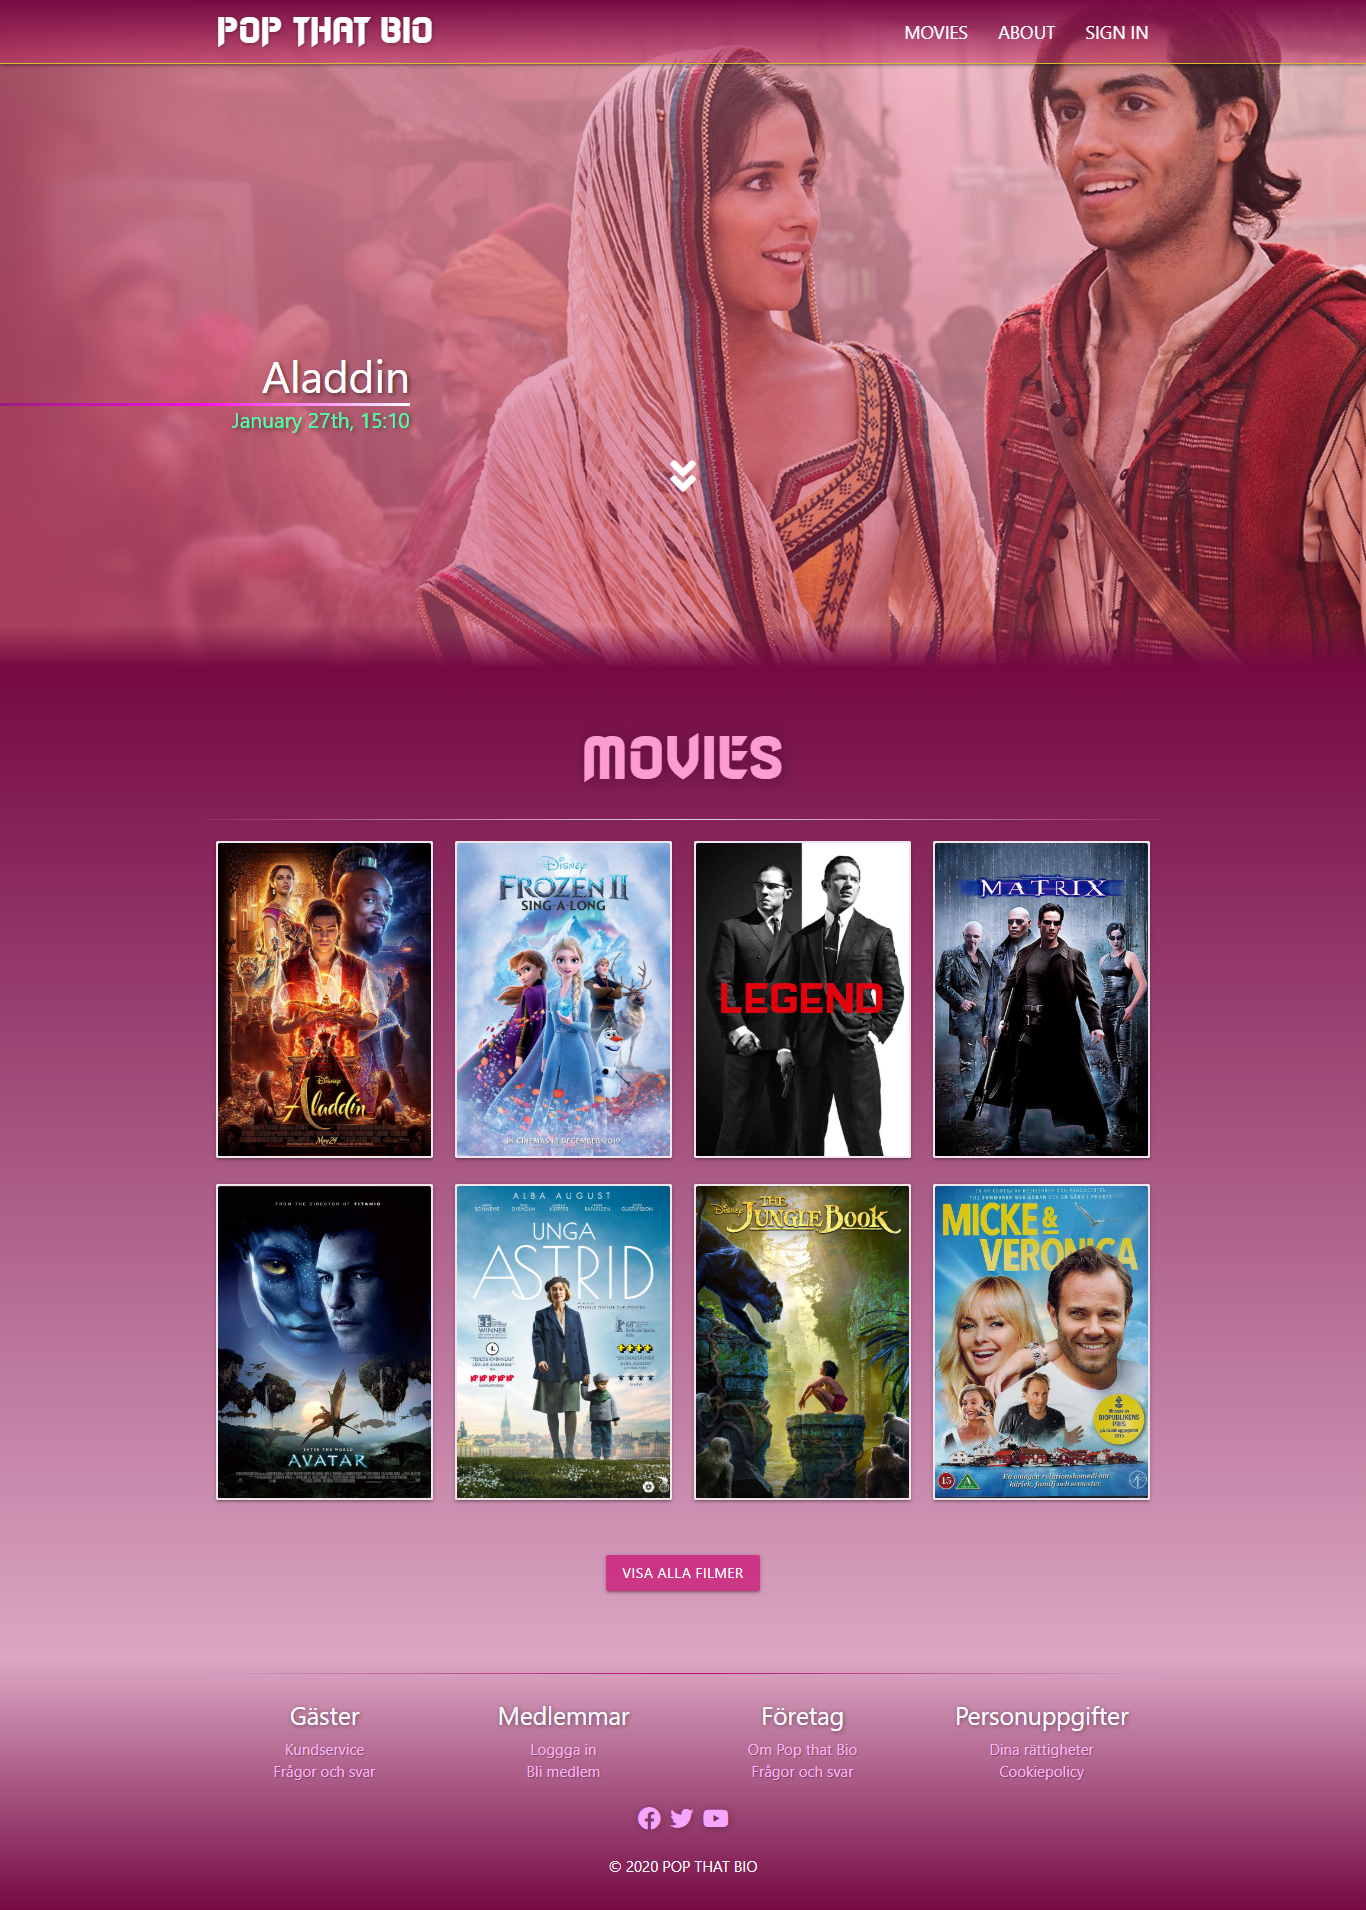
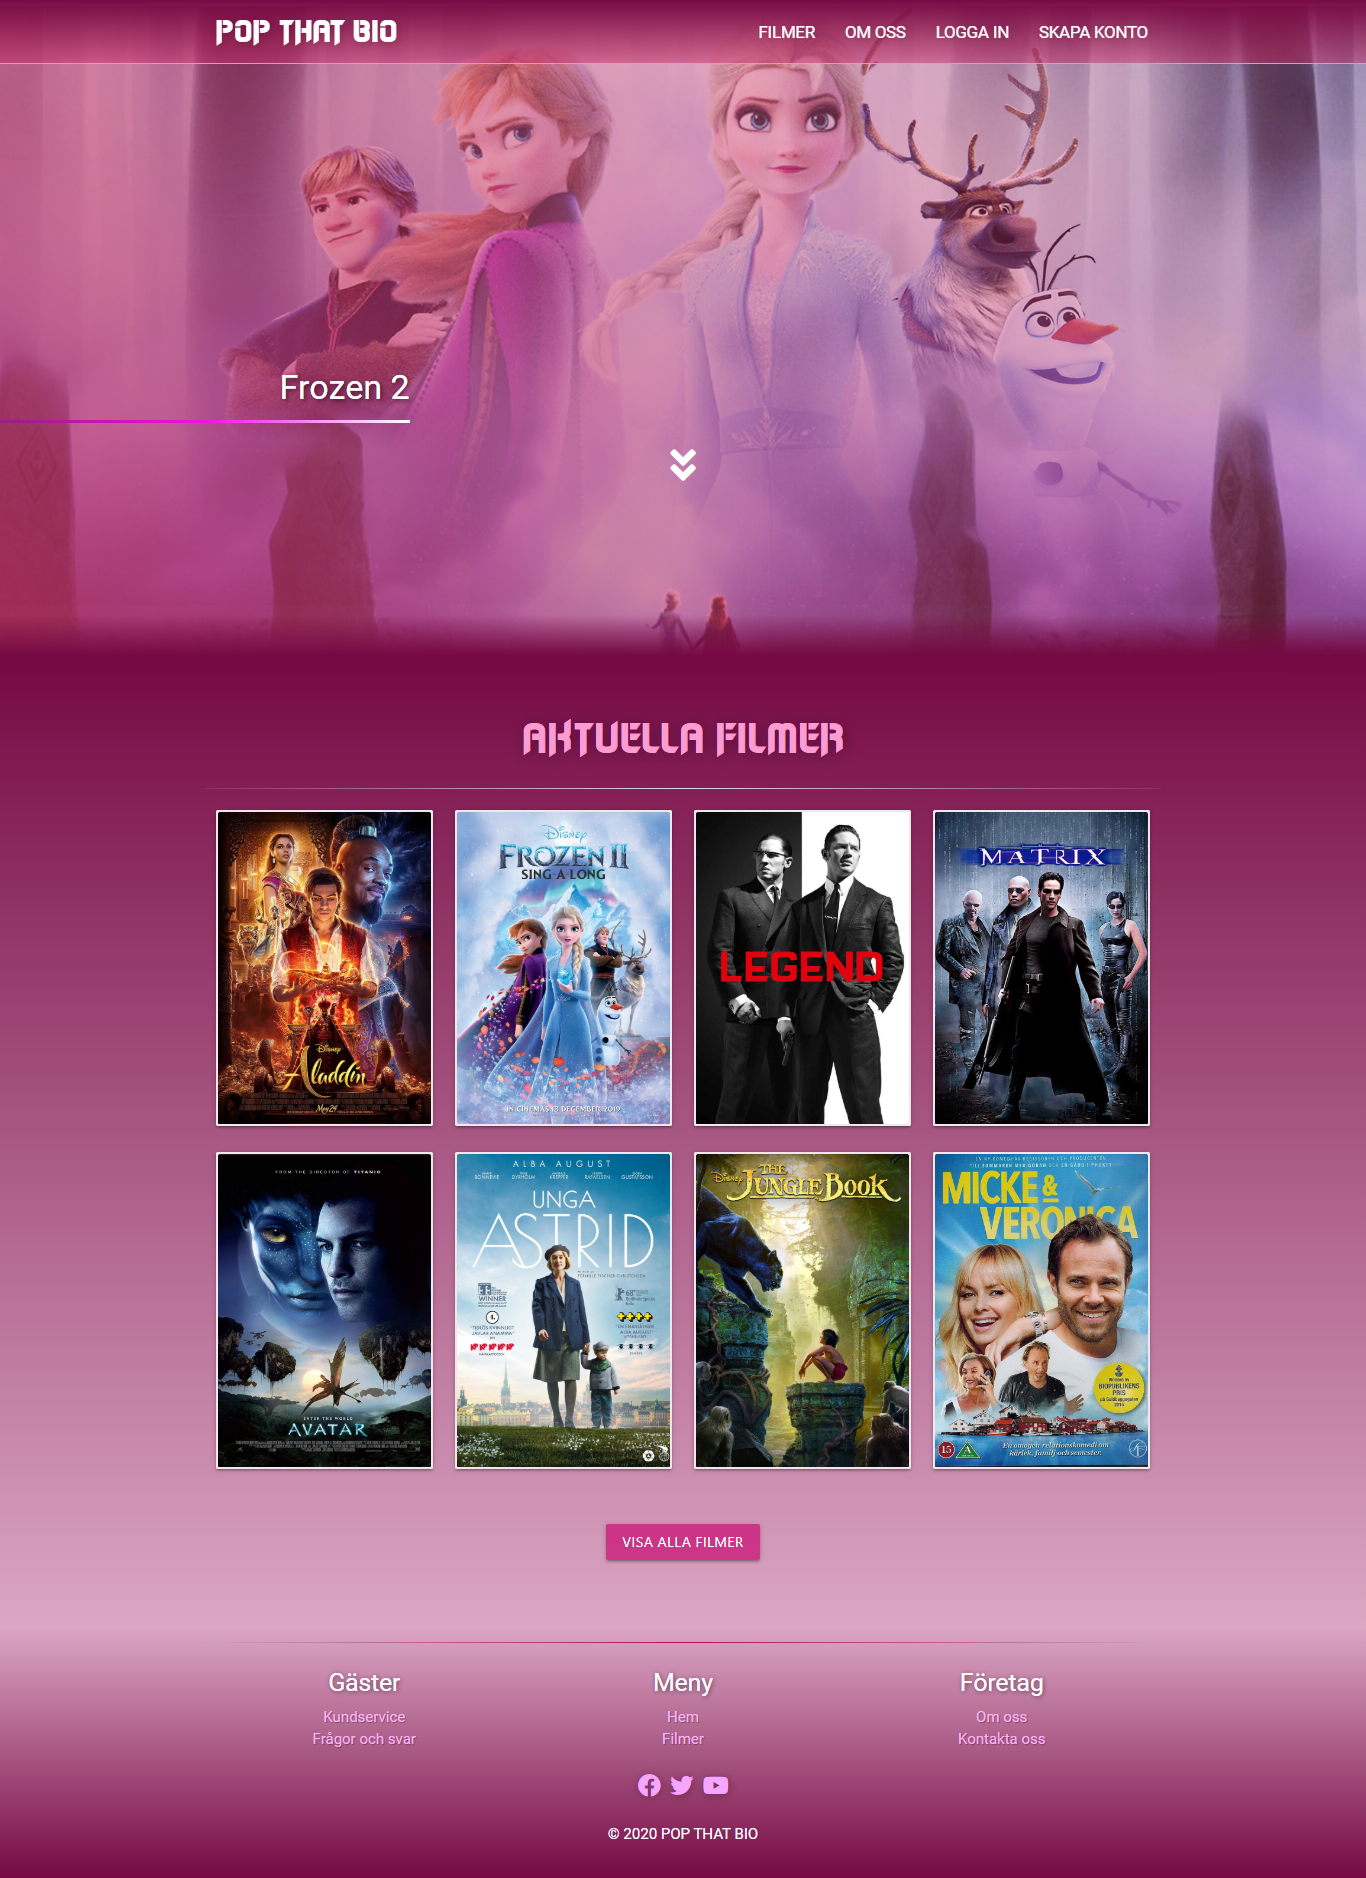
final code fix & cleanup

diff --git a/src/views/About.vue b/src/views/About.vue
@@ -48,20 +48,25 @@
       <div class="row container">
         <div class="row about">
           <div class="col s12">
-            <h4 class="contact center">Kontakta oss</h4>
-
+            <h4 class="contact center grey-text text-darken-1">Kontakta oss</h4>
             <div class></div>
           </div>
 
-          <div class="row">
-            <div class="col s12 tack center">
-              <h5>POP THAT BIO</h5>
-              <h6>www.popthatbio.now.sh</h6>
-              <h5>Teknikhögskolan, Lund</h5>
-              <h6>Kalkstenvagen 3</h6>
-              <h6>224 78 Lund</h6>
-              <h6>+46 774 10 05 00</h6>
-              <h6>lund@plushogskolan.se</h6>
+          <div class="row" id="contact">
+            <div class="col s12 tack center contact">
+              <h4 class="pink-text text-lighten-1 brand-logo">POP THAT BIO</h4>
+              <h6 class="grey-text lighten-2">Web: <span class="indigo-text text-lighten-2">https://popthatbio.now.sh</span></h6>
+              <p class="grey-text lighten-2">GitHub: <span class="indigo-text text-lighten-2">github.com/mriduava/pop-that-bio</span></p>
+              <div class="school-logo">
+                <img src="../assets/images/th.png" alt="teknikhögskolan" width="100%">
+              </div>
+              <div class="school-address">
+                <h5 class="teal-text text-lighten-1">Teknikhögskolan</h5>
+                <h6>Kalkstenvagen 3</h6>
+                <h6>224 78 Lund</h6>
+                <h6>+46 774 10 05 00</h6>
+                <h6>lund@plushogskolan.se</h6>
+              </div>              
             </div>
           </div>
         </div>
@@ -89,6 +94,11 @@ export default {
 @font-face {
   font-family: queen;
   src: url("../assets/fonts/queen.ttf");
+}
+
+@font-face {
+  font-family: borntogrille;
+  src: url("../assets/fonts/borntogrille.otf");
 }
 
 .container-fluid {
@@ -135,6 +145,24 @@ export default {
 hr {
   position: relative;
   top: -37px;
+}
+
+.brand-logo{
+  font-family: borntogrille;
+}
+.contact p{
+  color: #9b9b9b;
+}
+
+.school-logo{
+  width: 100px;
+  margin: 3% auto 0 auto;
+  padding: 0;
+}
+
+.school-address{
+  position: relative;
+  top: -30px;
 }
 
 .hr-style {

diff --git a/src/components/partials/Footer.vue b/src/components/partials/Footer.vue
@@ -3,7 +3,7 @@
     <div class="container">
       <hr class="hr-style" />
       <div class="row footer-info">
-        <div class="col x12 s12 m4 l4 xl4 group1">
+        <div class="col x12 s12 m3 l3 xl3 group1">
           <h5>Gäster</h5>
           <a href="mailto:info@popthatbio.se">Kundservice</a>
           <router-link to="/q-and-a/1">
@@ -11,7 +11,7 @@
           </router-link>
         </div>
 
-        <div class="col x12 s12 m4 l4 xl4 group3">
+        <div class="col x12 s12 m3 l3 xl3 group3">
           <h5>Meny</h5>
           <router-link to="/">
             <p>Hem</p>
@@ -21,14 +21,24 @@
           </router-link>
         </div>
 
+        <div class="col x12 s12 m3 l3 xl3 group3">
+          <h5>Users</h5>
+          <p>
+             <a href="#signin" class="modal-trigger">Logga in</a>
+          </p>
+          <p>
+            <a href="#signup" class="modal-trigger">Skapa konto</a>
+          </p>           
+        </div>
 
-         <div class="col x12 s12 m4 l4 xl4 group3">
+
+         <div class="col x12 s12 m3 l3 xl3 group4">
           <h5>Företag</h5>
           <router-link to="/about">
             <p>Om oss</p>
           </router-link>
-          <router-link to="/q-and-a/2">
-            <p>Kontakta oss</p>
+          <router-link to="/about">
+            <a>Kontakta oss</a>
           </router-link>
         </div>
 
@@ -56,6 +66,16 @@
     </div>
   </div>
 </template>
+
+<script>
+export default {
+    methods:{
+    scrollTo(selector){
+      document.querySelector(selector).scrollIntoView({behavior: 'smooth'})
+    }
+  },
+}
+</script>
 
 <style scoped lang="css">
 .container-fluid {
@@ -86,14 +106,20 @@
   text-shadow: 1px 1px 10px rgba(0, 0, 0, 0.3);
 }
 
-.social-media a:hover,
-.group1 a:hover {
-  color: #fff;
-}
 
-.group1 a {
+.group1 a,
+.group3>p>a,
+.group4 a {
   color: rgba(250, 186, 247, 0.952);
   text-shadow: 1px 1px 1px rgba(0, 0, 0, 0.3);
+}
+
+.social-media a:hover,
+.group1 a:hover,
+.group3>p>a:hover,
+.group4 a:hover {
+  color: #fff;
+  cursor: pointer;
 }
 
 .hr-style {

diff --git a/public/index.html b/public/index.html
@@ -5,7 +5,7 @@
     <meta charset="utf-8">
     <meta http-equiv="X-UA-Compatible" content="IE=edge">
     <meta name="viewport" content="width=device-width,initial-scale=1.0">
-    <link rel="icon" href="favicon.ico">
+    <link rel="icon" type="image/ico" href="favicon.ico">
     <link rel="stylesheet" href="https://cdnjs.cloudflare.com/ajax/libs/font-awesome/5.11.2/css/all.css">
     <link href="https://fonts.googleapis.com/css?family=Roboto&display=swap" rel="stylesheet">
     <link href="https://fonts.googleapis.com/icon?family=Material+Icons" rel="stylesheet" />

diff --git a/README.md b/README.md
@@ -15,7 +15,7 @@
 
 
 **Look the demo, and if you like give a star on GitHub**
->Demo site: Coming soon...<br>
+>Demo site: https://popthatbio.now.sh<br>
 
 ![](/screenshot/popthatbio.png)
 
